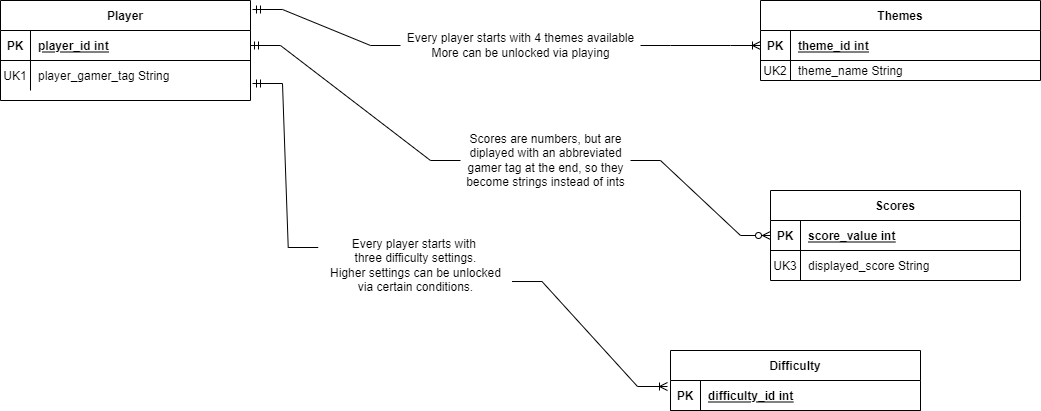
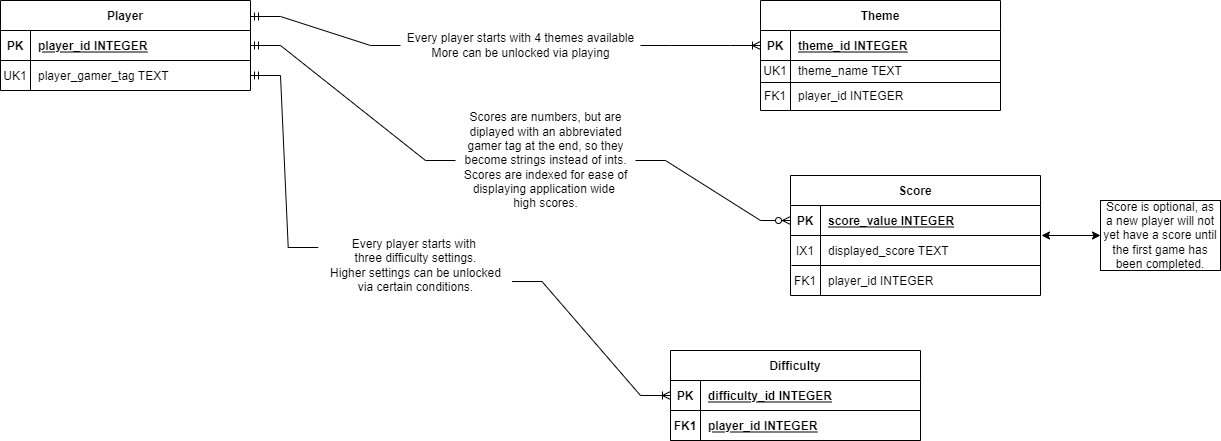
Fixed formatting in index.md.

diff --git a/app/src/main/java/edu/cnm/deepdive/unscramble/model/entity/Difficulty.java b/app/src/main/java/edu/cnm/deepdive/unscramble/model/entity/Difficulty.java
@@ -1,0 +1,45 @@
+package edu.cnm.deepdive.unscramble.model.entity;
+
+import androidx.annotation.NonNull;
+import androidx.room.ColumnInfo;
+import androidx.room.Entity;
+import androidx.room.ForeignKey;
+import androidx.room.PrimaryKey;
+
+@Entity(tableName = "difficulty",
+    foreignKeys = {
+        @ForeignKey(
+            entity = Player.class,
+            parentColumns = {"player_id"},
+            childColumns = {"player_id"},
+            onDelete = ForeignKey.CASCADE
+        )
+    }
+)
+public class Difficulty {
+
+  @PrimaryKey(autoGenerate = true)
+  @ColumnInfo(name = "difficulty_id")
+  private long id;
+
+  @NonNull
+  @ColumnInfo(name = "difficulty_name")
+  private String difficultyName;
+
+  public long getId() {
+    return id;
+  }
+
+  public void setId(long id) {
+    this.id = id;
+  }
+
+  @NonNull
+  public String getDifficultyName() {
+    return difficultyName;
+  }
+
+  public void setDifficultyName(@NonNull String difficultyName) {
+    this.difficultyName = difficultyName;
+  }
+}

diff --git a/app/src/main/java/edu/cnm/deepdive/unscramble/model/entity/Score.java b/app/src/main/java/edu/cnm/deepdive/unscramble/model/entity/Score.java
@@ -1,0 +1,43 @@
+package edu.cnm.deepdive.unscramble.model.entity;
+
+import androidx.room.ColumnInfo;
+import androidx.room.Entity;
+import androidx.room.ForeignKey;
+import androidx.room.PrimaryKey;
+
+
+@Entity(tableName = "score",
+    foreignKeys = {
+        @ForeignKey(
+            entity = Player.class,
+            parentColumns = {"player_id"},
+            childColumns = {"player_id"},
+            onDelete = ForeignKey.CASCADE
+        )
+    }
+)
+public class Score {
+
+  @PrimaryKey(autoGenerate = true)
+  @ColumnInfo(name = "score_id")
+  private long id;
+
+  @ColumnInfo(name = "displayed_score", index = true)
+  private String displayedScore;
+
+  public long getId() {
+    return id;
+  }
+
+  public void setId(long id) {
+    this.id = id;
+  }
+
+  public String getDisplayedScore() {
+    return displayedScore;
+  }
+
+  public void setDisplayedScore(String displayedScore) {
+    this.displayedScore = displayedScore;
+  }
+}

diff --git a/app/src/main/java/edu/cnm/deepdive/unscramble/model/entity/Theme.java b/app/src/main/java/edu/cnm/deepdive/unscramble/model/entity/Theme.java
@@ -1,0 +1,48 @@
+package edu.cnm.deepdive.unscramble.model.entity;
+
+import androidx.annotation.NonNull;
+import androidx.room.ColumnInfo;
+import androidx.room.Entity;
+import androidx.room.ForeignKey;
+import androidx.room.PrimaryKey;
+
+
+@Entity(
+    tableName = "theme",
+    foreignKeys = {
+        @ForeignKey(
+            entity = Player.class,
+            parentColumns = {"player_id"},
+            childColumns = {"player_id"},
+            onDelete = ForeignKey.CASCADE
+        )
+    }
+)
+public class Theme {
+
+  @PrimaryKey(autoGenerate = true)
+  @ColumnInfo(name = "theme_id")
+  private long id;
+
+  @NonNull
+  @ColumnInfo(name = "theme_name")
+  private String name;
+
+  public long getId() {
+    return id;
+  }
+
+  public void setId(long id) {
+    this.id = id;
+  }
+
+  @NonNull
+  public String getName() {
+    return name;
+  }
+
+  public void setName(@NonNull String name) {
+    this.name = name;
+  }
+
+}

diff --git a/app/src/main/java/edu/cnm/deepdive/unscramble/model/entity/Player.java b/app/src/main/java/edu/cnm/deepdive/unscramble/model/entity/Player.java
@@ -1,0 +1,36 @@
+package edu.cnm.deepdive.unscramble.model.entity;
+
+import androidx.annotation.NonNull;
+import androidx.room.ColumnInfo;
+import androidx.room.Entity;
+import androidx.room.PrimaryKey;
+import java.util.UUID;
+
+@Entity(tableName = "player")
+public class Player {
+
+  @PrimaryKey(autoGenerate = true)
+  @ColumnInfo(name = "player_id")
+  private long id;
+
+  @NonNull
+  @ColumnInfo(name = "player_gamer_tag")
+  private String playerGamerTag;
+
+  public long getId() {
+    return id;
+  }
+
+  public void setId(long id) {
+    this.id = id;
+  }
+
+  @NonNull
+  public String getPlayerGamerTag() {
+    return playerGamerTag;
+  }
+
+  public void setPlayerGamerTag(@NonNull String playerGamerTag) {
+    this.playerGamerTag = playerGamerTag;
+  }
+}
